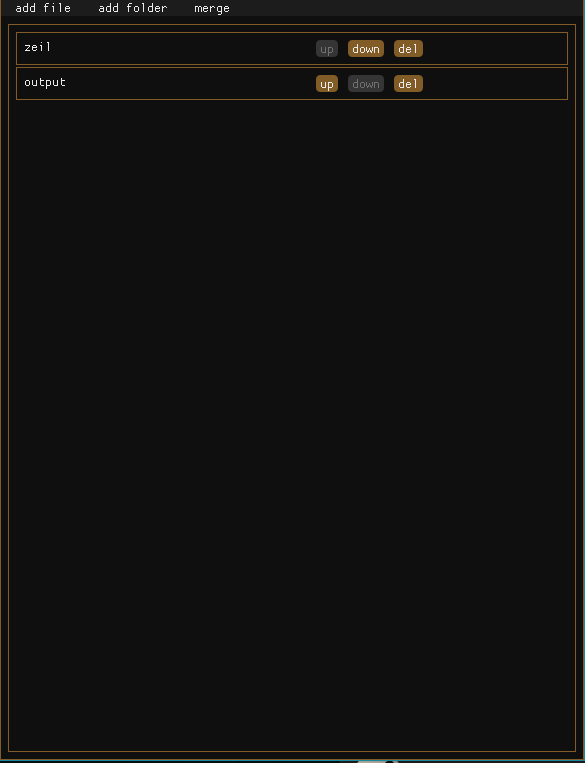
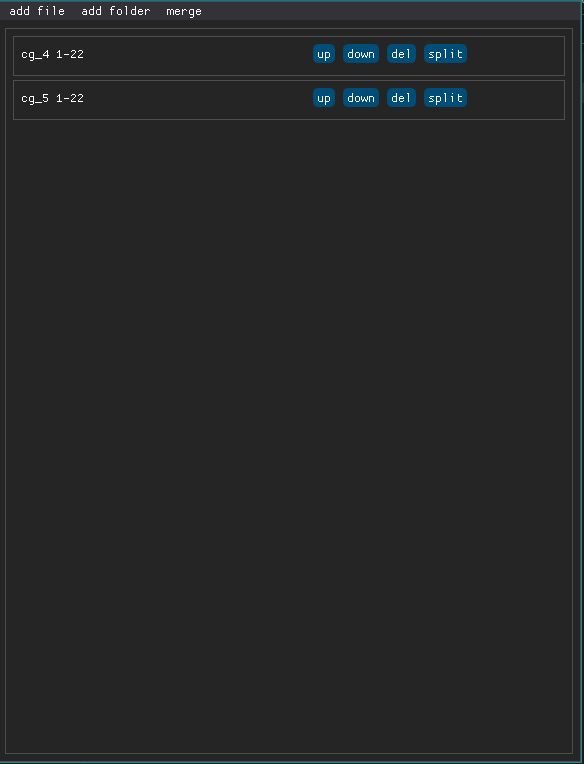
Refactoring and split functionality
Some code refactoring and the addition of a new split functionality for your pdf's.

Changed region(s): [[0.0, 0.0, 1.0, 1.0]]

diff --git a/pdf.py b/pdf.py
@@ -1,139 +1,82 @@
+# contains all data structures and code for working with the pdf's
+
 import os
-from dearpygui.core import *
-from dearpygui.simple import *
-from PyPDF2 import PdfFileReader, PdfFileWriter
-from easygui import diropenbox, fileopenbox, filesavebox
+from PyPDF2 import PdfFileReader, PdfFileWriter, PdfFileMerger
 
-#searches for pdf files in a folder and add them to the list
-def findfiles(path, l=[]):
-    for folder, subfs, files in os.walk(path):
-        for file in files:
-            f = file.split('.')
-            if f[-1] == 'pdf':
-                l.append({"name": f[0], "status": True, "path": folder + '/' + file})
-                with open(l[-1]["path"], 'rb') as f:
-                    pdf = PdfFileReader(f)
-                    l[-1]["p"] = pdf.getNumPages()
-        break
-    return l
-
-#adds a pdf file to the list
-def addfile(path,file,l=[]):
-        f = file.split('.')
-        if f[-1] == 'pdf':
-            l.append({"name": f[0], "status": True, "path": path})
-            with open(l[-1]["path"], 'rb') as f:
-                pdf = PdfFileReader(f)
-                l[-1]["p"] = pdf.getNumPages()
-        return l
-
-#merge all selected items to 1 pdf
-def merge(l, output):
-    pdf_writer = PdfFileWriter()
-    paths = []
-    for i in range(len(l)):
-        if l[i]["status"]:
-            paths.append(l[i]["path"])
-    for path in paths:
-        pdf_reader = PdfFileReader(path)
-        for page in range(pdf_reader.getNumPages()):
-            pdf_writer.addPage(pdf_reader.getPage(page))
-    with open(output, 'wb') as out:
-        pdf_writer.write(out)
-
-#change the order of a item in the list
-def verplaats(l,i,ud):
-    temp = l[i]
-    del l[i]
-    if ud == "u":
-        l.insert(i-1,temp)
-    else:
-        l.insert(i+1,temp)
-    return l
-
-#shows the window for adding a file to the list
-def add_file(sender,data):
-    l = get_data('list')
-    f = fileopenbox(title="Kies een file", default='*.pdf', filetypes="*.pdf", multiple=False)
-    l = addfile(f,f.split('\\')[-1], l)
-    add_data('list',l)
-    del_files()
-    display_files()
- 
-#shows the window for adding a folder to the list
-def add_folder(sender,data):
-    l = get_data('list')
-    path = diropenbox(title="Kies een folder") 
-    l = findfiles(path, l)
-    add_data('list',l)
-    del_files()
-    display_files()
-
-#shows the window for saving the output
-def merger(sender,data):
-    l = get_data('list')
-    s = filesavebox(title="Opslaan als", default='output.pdf', filetypes="*.pdf")
-    merge(l, s)
-
-#clear list
-def del_files():
-    delete_item('lijst')
-
-#callback for up button
-def b_up(sender,data):
-    l = get_data('list')
-    l = verplaats(l, data, 'u')
-    add_data('list', l)
-    del_files()
-    display_files()
-
-#callback for down button
-def b_down(sender,data):
-    l = get_data('list')
-    l = verplaats(l, data, 'd')
-    add_data('list', l)
-    del_files()
-    display_files()
-
-#callback for delete button
-def b_del(sender,data):
-    l = get_data('list')
-    del l[data]
-    add_data('list', l)
-    del_files()
-    display_files()
-
-#displays the items in the list on the gui
-def display_files():
-    l = get_data('list')
-    with child('lijst', parent='main'):
-        for i in range(len(l)):
-            name = l[i]["name"]
-            with child('c'+name, height=33):
-                add_text(name)
-                add_same_line(xoffset=300)
-                add_button('up##'+name, enabled=i!=0, callback=b_up, callback_data=i)
-                add_same_line()
-                add_button('down##'+name, enabled=i!=len(l)-1, callback=b_down, callback_data=i)
-                add_same_line()
-                add_button('del##'+name, callback=b_del, callback_data=i)
+# represents 1 pdf containing the pages between startPage and endPage 
+# in the pdf located at path
+class Pdf():
+    def __init__(self, name, path):
+        self.name = name
+        self.path = path
+        self.startPage = 0
+        self.endPage = self.getNumPages()
     
-#initialize the gui
-def gui():
-    l = []
-    add_data('list', l)
-    set_theme("Gold")
-    with window("main"):
-        with menu_bar("Menu"):
-            add_menu_item("add file", callback=add_file)
-            add_menu_item("add folder", callback=add_folder)
-            add_menu_item("merge", callback=merger)
-        display_files()
-    set_main_window_size(600,800)
-    set_main_window_title("pdf samenvoeger")
-    start_dearpygui(primary_window='main')
+    def getNumPages(self):
+        pdf = PdfFileReader(self.path)
+        i = pdf.getNumPages()
+        return i
+    
+    def __str__(self):
+        return self.name + " " + str(self.startPage+1) + "-" + str(self.endPage)
+    
+    # split the pdf in 2 parts a newly created pdf object and this object
+    # this is done by changing the start and end pages
+    def split(self, page):
+        newpdf = Pdf(self.name, self.path)
+        newpdf.startPage = self.startPage
+        newpdf.endPage = page
+        self.startPage = page
+        return newpdf
+    
+# Used to hold all pdf's
+class PdfList():
+    def __init__(self):
+        self.l = []   
 
+    #searches for pdf files in a folder and add them to the list
+    def findFiles(self, path):
+        for folder, subfs, files in os.walk(path):
+            for file in files:
+                f = os.path.splitext(file)
+                if f[1] == '.pdf':
+                    self.l.append(Pdf(f[0], folder + '/' + file))
+            break
 
-if __name__ == "__main__":
-    gui()
+    #adds a pdf file to the list
+    def addFile(self, path):
+        f = os.path.basename(path)
+        f = os.path.splitext(f)
+        if f[1] == '.pdf':
+            self.l.append(Pdf(f[0], path))
+
+    #merge all selected items to 1 pdf
+    def merge(self, output):
+        pdf_writer = PdfFileWriter()
+        for pdf in self.l:
+            pdfR = PdfFileReader(pdf.path)
+            for i in range(pdf.startPage, pdf.endPage):
+                page = pdfR.getPage(i)
+                pdf_writer.addPage(page)
+        with open(output, 'wb') as out:
+            pdf_writer.write(out)
+
+    #change the order of a item in the list
+    def swap(self, i, up):
+        if up:
+            self.l[i], self.l[i-1] = self.l[i-1], self.l[i]
+        else:
+            self.l[i], self.l[i+1] = self.l[i+1], self.l[i]
+
+    def remove(self, i):
+        del self.l[i]
+
+    def size(self):
+        return len(self.l)
+    
+    # split the pdf at pdfid in to parts at page
+    def split(self, pdfid, page):
+        newpdf = self.l[pdfid].split(page)
+        self.l.insert(pdfid, newpdf)
+
 

diff --git a/pdf-gui.py b/pdf-gui.py
@@ -1,0 +1,115 @@
+# contains all gui code and the main function
+
+import os
+from dearpygui.dearpygui import *
+from easygui import diropenbox, fileopenbox, filesavebox
+from PyPDF2 import PdfFileReader, PdfFileWriter, PdfFileMerger
+from pdf import PdfList
+
+#shows the window for adding a file to the list
+def add_file(sender, app, data):
+    f = fileopenbox(title="Kies een file", default='*.pdf', filetypes="*.pdf", multiple=False)
+    if f == None:
+        return
+    pdfs.addFile(f)
+    del_files()
+    display_files()
+ 
+#shows the window for adding a folder to the list
+def add_folder(sender, app, data):
+    path = diropenbox(title="Kies een folder") 
+    if path == None:
+        return
+    pdfs.findFiles(path)
+    del_files()
+    display_files()
+
+#shows the window for saving the output
+def merger(sender, app, data):
+    s = filesavebox(title="Opslaan als", default='output.pdf', filetypes="*.pdf")
+    if s == None:
+        return
+    pdfs.merge(s)
+
+#clear list
+def del_files():
+    delete_item(ui_list)
+
+#callback for up button
+def b_up(sender, app, data):
+    pdfs.swap(data, True)
+    del_files()
+    display_files()
+
+#callback for down button
+def b_down(sender, app, data):
+    pdfs.swap(data, False)
+    del_files()
+    display_files()
+
+#callback for delete button
+def b_del(sender, app, data):
+    pdfs.remove(data)
+    del_files()
+    display_files()
+
+# callback for the split button in the extra window
+def split(sender, app, data):
+    page = get_value(data['page'])
+    pdfid = data['pdf']
+    pdfs.split(pdfid, page)
+    delete_item(get_item_parent(sender))
+    del_files()
+    display_files()
+
+#callback for split button
+def b_split(sender, app, data):
+    with window(label="split " + pdfs.l[data].name, pos=[30,30], autosize=True):
+        add_text("Page: ")
+        add_same_line()
+        pagenum = add_input_int(default_value=1, min_value=1, max_value=pdfs.l[data].getNumPages()-1)
+        add_button(label="Split", callback=split, user_data={'page':pagenum, 'pdf':data})
+
+#displays the items in the list on the gui
+def display_files():
+    with child(label='list', parent=main_window, id=ui_list):
+        for i in range(pdfs.size()):
+            name = str(pdfs.l[i])
+            with child(label='c'+name, height=40, no_scrollbar=True):
+                add_text(name)
+                add_same_line(xoffset=300)
+                add_button(label='up##'+name, enabled=i!=0, callback=b_up, user_data=i)
+                add_same_line()
+                add_button(label='down##'+name, enabled=i!=pdfs.size()-1, callback=b_down, user_data=i)
+                add_same_line()
+                add_button(label='del##'+name, callback=b_del, user_data=i)
+                add_same_line()
+                add_button(label='split##'+name, callback=b_split, user_data=i)
+    
+#initialize the gui
+def gui():
+    with theme(default_theme=True) as theme_id:
+        add_theme_color(mvThemeCol_Button, (0, 78, 120), category=mvThemeCat_Core)
+        add_theme_style(mvStyleVar_FrameRounding, 5, category=mvThemeCat_Core)
+
+    with window(label="main", id=main_window):
+        with menu_bar(label="Menu"):
+            add_menu_item(label="add file", callback=add_file)
+            add_menu_item(label="add folder", callback=add_folder)
+            add_menu_item(label="merge", callback=merger)
+        display_files()
+    setup_viewport()
+    set_viewport_title(title='Pdf Tool')
+    set_viewport_width(600)
+    set_viewport_height(800)
+    set_primary_window(main_window, True)
+    start_dearpygui()
+
+
+
+pdfs = PdfList()
+main_window = generate_uuid()
+ui_list = generate_uuid()
+
+if __name__ == "__main__":
+    gui()
